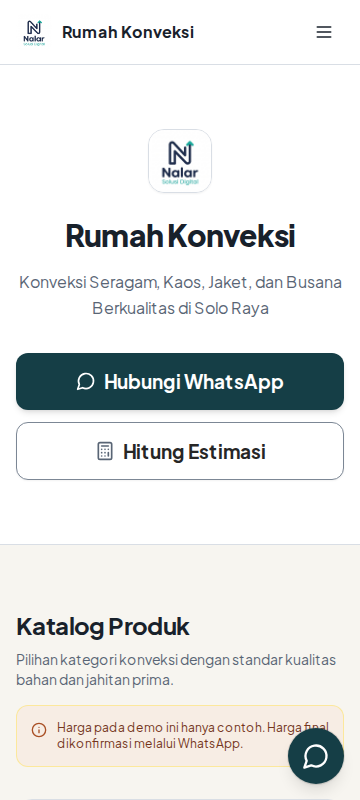
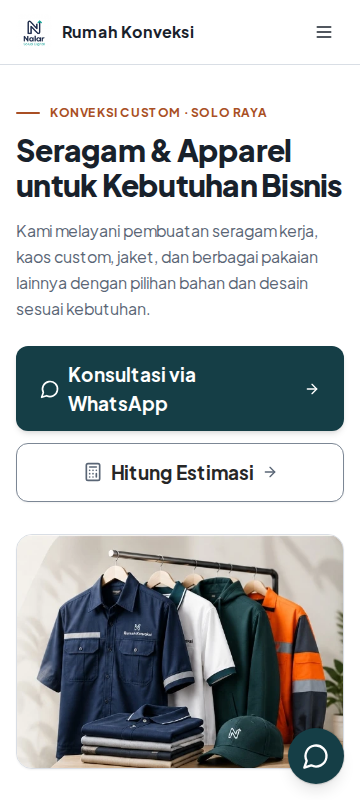
Hero section

diff --git a/src/components/Hero.tsx b/src/components/Hero.tsx
@@ -1,56 +1,92 @@
 import type { BusinessConfig } from "@/config/types";
 import { getAccessibleTextColor } from "@/lib/color";
 import { createInquiryWhatsAppUrl } from "@/lib/whatsapp";
-import { Calculator, MessageCircle } from "lucide-react";
+import { ArrowRight, Calculator, MessageCircle } from "lucide-react";
 
 interface HeroProps {
   config: BusinessConfig;
 }
 
+/**
+ * Split Hero Section with Product Editorial layout.
+ * Left Column: Business Eyebrow, Headline, Value Proposition Description, and Primary/Secondary CTAs.
+ * Right Column: Studio Apparel Composition showcasing workwear, polo, hoodie, and safety garments.
+ */
 export function Hero({ config }: HeroProps) {
   const waUrl = createInquiryWhatsAppUrl(config.wa, config.nama);
   const textColor = getAccessibleTextColor(config.warnaUtama);
 
   return (
-    <section className="relative overflow-hidden bg-white border-b border-mist">
-      <div className="mx-auto max-w-4xl px-4 py-16 sm:px-6 sm:py-24 text-center">
-        {config.logo && (
-          <div className="mb-6 flex justify-center">
-            <img
-              src={config.logo}
-              alt={`Logo ${config.nama}`}
-              className="h-16 w-auto object-contain sm:h-20 rounded-2xl shadow-sm border border-mist"
-            />
+    <section
+      aria-label={`Profil ${config.nama}`}
+      className="relative overflow-hidden bg-white border-b border-mist"
+    >
+      <div className="mx-auto max-w-6xl px-4 py-10 sm:px-6 sm:py-16 lg:py-20 lg:px-8">
+        <div className="grid grid-cols-1 lg:grid-cols-12 lg:gap-12 lg:items-center">
+          {/* Left Column: Business info & CTAs */}
+          <div className="lg:col-span-7 flex flex-col text-left">
+            {/* Eyebrow */}
+            <div className="flex items-center gap-2.5">
+              <span className="h-0.5 w-6 sm:w-8 bg-brand-accent rounded-full" aria-hidden="true" />
+              <span className="text-xs sm:text-sm font-bold uppercase tracking-wider text-brand-accent">
+                KONVEKSI CUSTOM · SOLO RAYA
+              </span>
+            </div>
+
+            {/* Headline */}
+            <h1 className="mt-3 text-3xl font-extrabold tracking-tight text-ink sm:text-4xl lg:text-5xl leading-[1.15]">
+              Seragam &amp; Apparel untuk Kebutuhan Bisnis
+            </h1>
+
+            {/* Description */}
+            <p className="mt-4 text-base text-slate sm:text-lg leading-relaxed max-w-2xl">
+              {config.tagline ||
+                "Kami melayani pembuatan seragam kerja, kaos custom, jaket, dan berbagai pakaian lainnya dengan pilihan bahan dan desain sesuai kebutuhan."}
+            </p>
+
+            {/* CTA Group */}
+            <div className="mt-6 sm:mt-8 flex flex-col sm:flex-row items-stretch sm:items-center gap-3 sm:gap-4">
+              <a
+                href={waUrl}
+                target="_blank"
+                rel="noopener noreferrer"
+                style={{ backgroundColor: config.warnaUtama, color: textColor }}
+                aria-label={`Konsultasi via WhatsApp dengan ${config.nama}`}
+                className="w-full sm:w-auto inline-flex items-center justify-center gap-2 rounded-xl bg-brand-primary text-brand-text px-6 py-3.5 text-[19px] font-bold sm:text-xl shadow-md hover:bg-brand-primary-hover focus-visible:outline focus-visible:outline-2 focus-visible:outline-offset-2 focus-visible:outline-neutral-900 transition-all cursor-pointer"
+              >
+                <MessageCircle className="w-5 h-5 flex-shrink-0" aria-hidden="true" />
+                <span>Konsultasi via WhatsApp</span>
+                <ArrowRight className="w-4 h-4 flex-shrink-0" aria-hidden="true" />
+              </a>
+
+              <a
+                href="#kalkulator"
+                className="w-full sm:w-auto inline-flex items-center justify-center gap-2 rounded-xl border border-steel bg-white px-6 py-3.5 text-[19px] font-bold sm:text-xl text-neutral-800 shadow-sm hover:bg-page-bg focus-visible:outline focus-visible:outline-2 focus-visible:outline-offset-2 focus-visible:outline-neutral-900 transition-colors cursor-pointer"
+              >
+                <Calculator className="w-5 h-5 flex-shrink-0 text-slate" aria-hidden="true" />
+                <span>Hitung Estimasi</span>
+                <ArrowRight className="w-4 h-4 flex-shrink-0 text-slate" aria-hidden="true" />
+              </a>
+            </div>
           </div>
-        )}
 
-        <h1 className="text-3xl font-extrabold tracking-tight text-ink sm:text-5xl lg:text-6xl">
-          {config.nama}
-        </h1>
-
-        <p className="mx-auto mt-4 max-w-2xl text-base text-slate sm:text-lg sm:mt-6 leading-relaxed">
-          {config.tagline}
-        </p>
-
-        <div className="mt-8 flex flex-col sm:flex-row items-center justify-center gap-3 sm:gap-4">
-          <a
-            href={waUrl}
-            target="_blank"
-            rel="noopener noreferrer"
-            style={{ backgroundColor: config.warnaUtama, color: textColor }}
-            className="w-full sm:w-auto inline-flex items-center justify-center gap-2 rounded-xl bg-brand-primary text-brand-text px-6 py-3.5 text-[19px] font-bold sm:text-xl shadow-md hover:opacity-95 focus-visible:outline focus-visible:outline-2 focus-visible:outline-offset-2 focus-visible:outline-neutral-900 transition-all"
-          >
-            <MessageCircle className="w-5 h-5 flex-shrink-0" aria-hidden="true" />
-            <span>Hubungi WhatsApp</span>
-          </a>
-
-          <a
-            href="#kalkulator"
-            className="w-full sm:w-auto inline-flex items-center justify-center gap-2 rounded-xl border border-steel bg-white px-6 py-3.5 text-[19px] font-bold sm:text-xl text-neutral-800 shadow-sm hover:bg-page-bg focus-visible:outline focus-visible:outline-2 focus-visible:outline-offset-2 focus-visible:outline-neutral-900 transition-colors"
-          >
-            <Calculator className="w-5 h-5 flex-shrink-0 text-slate" aria-hidden="true" />
-            <span>Hitung Estimasi</span>
-          </a>
+          {/* Right Column: Apparel Visual Editorial Composition */}
+          <div className="lg:col-span-5 mt-8 lg:mt-0 flex justify-center lg:justify-end">
+            <div className="relative w-full max-w-lg lg:max-w-none overflow-hidden rounded-2xl sm:rounded-3xl border border-mist bg-white shadow-sm">
+              <picture>
+                <source srcSet="/images/hero-apparel.webp" type="image/webp" />
+                <img
+                  src="/images/hero-apparel.jpg"
+                  alt={`Contoh produk apparel dan seragam kerja ${config.nama}`}
+                  width={516}
+                  height={370}
+                  loading="eager"
+                  fetchPriority="high"
+                  className="w-full h-auto object-cover"
+                />
+              </picture>
+            </div>
+          </div>
         </div>
       </div>
     </section>

diff --git a/src/components/Hero.test.tsx b/src/components/Hero.test.tsx
@@ -5,15 +5,20 @@ import { Hero } from "./Hero";
 import { demoGenerikConfig } from "@/config/demo-generik";
 import { calculateContrastRatio, getAccessibleTextColor, getRelativeLuminance } from "@/lib/color";
 
-describe("Hero Component", () => {
-  it("renders business name and tagline correctly", () => {
+describe("Hero Component (Product Editorial)", () => {
+  it("renders Product Editorial headline, eyebrow, and value proposition description", () => {
     const html = renderToString(<Hero config={demoGenerikConfig} />);
-    expect(html).toContain("Rumah Konveksi");
-    expect(html).toContain("Konveksi Seragam, Kaos, Jaket, dan Busana Berkualitas di Solo Raya");
+    expect(html).toContain("KONVEKSI CUSTOM · SOLO RAYA");
+    expect(html).toContain("Seragam &amp; Apparel untuk Kebutuhan Bisnis");
+    expect(html).toContain(demoGenerikConfig.tagline);
+    expect(html).toContain(`aria-label="Profil ${demoGenerikConfig.nama}"`);
   });
 
-  it("renders WhatsApp CTA button with correct typography (>= 18.67px) and accessible colors", () => {
+  it("renders WhatsApp CTA button with 'Konsultasi via WhatsApp' and accessible colors", () => {
     const html = renderToString(<Hero config={demoGenerikConfig} />);
+
+    // Button label
+    expect(html).toContain("Konsultasi via WhatsApp");
 
     // Font size check: text-[19px] font-bold sm:text-xl
     expect(html).toContain("text-[19px]");
@@ -30,9 +35,8 @@ describe("Hero Component", () => {
     const bgLum = getRelativeLuminance(demoGenerikConfig.warnaUtama);
     const textLum = getRelativeLuminance(expectedTextColor);
     const contrastRatio = calculateContrastRatio(bgLum, textLum);
-    expect(contrastRatio).toBeGreaterThanOrEqual(3.0); // WCAG Large Text
-    expect(contrastRatio).toBeGreaterThanOrEqual(4.5); // Also satisfies normal text
-    expect(contrastRatio).toBeGreaterThan(10.0);
+    expect(contrastRatio).toBeGreaterThanOrEqual(4.5);
+    expect(contrastRatio).toBeGreaterThan(11.0);
 
     // Link attributes
     expect(html).toContain('target="_blank"');
@@ -43,16 +47,15 @@ describe("Hero Component", () => {
     expect(html).toContain("focus-visible:outline-neutral-900");
   });
 
-  it("renders Estimasi CTA button with correct typography (>= 18.67px) and anchor link", () => {
+  it("renders Estimasi CTA button targeting #kalkulator with 'Hitung Estimasi' text", () => {
     const html = renderToString(<Hero config={demoGenerikConfig} />);
 
     // Anchor link
     expect(html).toContain('href="#kalkulator"');
+    expect(html).toContain("Hitung Estimasi");
 
-    // Font size check
+    // Typography & Contrast check
     expect(html).toContain("text-neutral-800");
-
-    // Secondary contrast check: #262626 on #ffffff
     const whiteLum = getRelativeLuminance("#ffffff");
     const textLum = getRelativeLuminance("#262626");
     const contrastRatio = calculateContrastRatio(whiteLum, textLum);
@@ -63,16 +66,21 @@ describe("Hero Component", () => {
     expect(html).toContain("focus-visible:outline-neutral-900");
   });
 
-  it("renders logo when present, and omits logo container when undefined", () => {
-    const withoutLogo = renderToString(
-      <Hero config={{ ...demoGenerikConfig, logo: undefined }} />
-    );
-    expect(withoutLogo).not.toContain("<img");
+  it("does not render production summary metrics in Hero section", () => {
+    const html = renderToString(<Hero config={demoGenerikConfig} />);
 
-    const withLogo = renderToString(<Hero config={demoGenerikConfig} />);
-    expect(withLogo).toContain("<img");
-    expect(withLogo).toContain('src="/pp-nalar.jpeg"');
-    expect(withLogo).toContain('alt="Logo Rumah Konveksi"');
+    expect(html).not.toContain(`MOQ ${demoGenerikConfig.kalkulator.moq} pcs`);
+    expect(html).not.toContain("Lama Pengerjaan");
+    expect(html).not.toContain("Bahan Pilihan");
+  });
+
+  it("renders high quality studio apparel editorial visual in the right column", () => {
+    const html = renderToString(<Hero config={demoGenerikConfig} />);
+
+    expect(html).toContain('src="/images/hero-apparel.jpg"');
+    expect(html).toContain('/images/hero-apparel.webp');
+    expect(html).toContain(`alt="Contoh produk apparel dan seragam kerja ${demoGenerikConfig.nama}"`);
+    expect(html).toContain('loading="eager"');
   });
 
   it("adapts text color for light brand colors to preserve contrast >= 3.0:1", () => {
@@ -90,4 +98,3 @@ describe("Hero Component", () => {
     expect(contrastRatio).toBeGreaterThanOrEqual(3.0);
   });
 });
-

diff --git a/src/components/KatalogKategori.tsx b/src/components/KatalogKategori.tsx
@@ -103,14 +103,6 @@ export function KatalogKategori({ kategori }: KatalogKategoriProps) {
         <p className="mt-2 text-sm text-slate sm:text-base">
           Pilihan kategori konveksi dengan standar kualitas bahan dan jahitan prima.
         </p>
-
-        {/* Visible disclaimer on Thread Cream surface (accent-surface) indicating demo prices are illustrative examples */}
-        <div className="mt-4 flex items-start gap-2.5 rounded-xl border border-amber-200/80 bg-accent-surface p-3.5 text-xs text-accent-text sm:text-sm">
-          <Info className="mt-0.5 h-4 w-4 shrink-0 text-brand-accent" aria-hidden="true" />
-          <p>
-            Harga pada demo ini hanya contoh. Harga final dikonfirmasi melalui WhatsApp.
-          </p>
-        </div>
       </div>
 
       <div className="grid grid-cols-1 gap-6 sm:grid-cols-2 lg:grid-cols-3">
@@ -163,3 +155,4 @@ export function KatalogKategori({ kategori }: KatalogKategoriProps) {
     </section>
   );
 }
+

diff --git a/src/components/KatalogKategori.test.tsx b/src/components/KatalogKategori.test.tsx
@@ -16,12 +16,6 @@ describe("KatalogKategori Component", () => {
     }
   });
 
-  it("renders visible price disclaimer for demo prices", () => {
-    const html = renderToString(<KatalogKategori kategori={demoGenerikConfig.kategori} />);
-    expect(html).toContain(
-      "Harga pada demo ini hanya contoh. Harga final dikonfirmasi melalui WhatsApp.",
-    );
-  });
 
   it("renders formatted starting prices in 'Mulai Rp ... / pcs' format", () => {
     const html = renderToString(<KatalogKategori kategori={demoGenerikConfig.kategori} />);

diff --git a/src/config/demo-generik.ts b/src/config/demo-generik.ts
@@ -3,7 +3,7 @@ import type { BusinessConfig } from "./types";
 export const demoGenerikConfig: BusinessConfig = {
   slug: "demo-generik",
   nama: "Rumah Konveksi",
-  tagline: "Konveksi Seragam, Kaos, Jaket, dan Busana Berkualitas di Solo Raya",
+  tagline: "Kami melayani pembuatan seragam kerja, kaos custom, jaket, dan berbagai pakaian lainnya dengan pilihan bahan dan desain sesuai kebutuhan.",
   logo: "/pp-nalar.jpeg",
   warnaUtama: "#153E46",
   warnaAksen: "#A94F24",

diff --git a/next.config.ts b/next.config.ts
@@ -1,8 +1,7 @@
 import type { NextConfig } from "next";
 
 const nextConfig: NextConfig = {
-  /* config options here */
+  transpilePackages: ["lucide-react"],
 };
 
 export default nextConfig;
-
